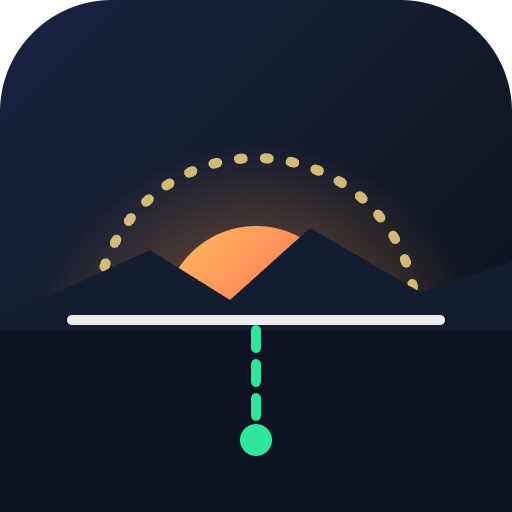
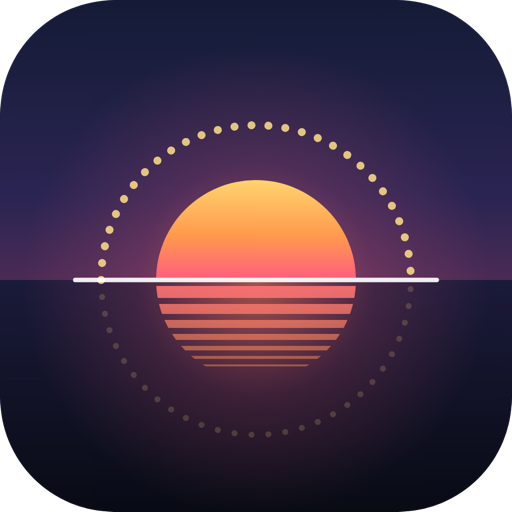
Specula 2026-10-28 00:54

diff --git a/js/main.js b/js/main.js
@@ -1,5 +1,5 @@
 // ─────────────────────────────────────────────────────────────
-// Lichtplan – Einstiegspunkt
+// Specula – Einstiegspunkt
 // ─────────────────────────────────────────────────────────────
 import { state, setState, onState } from './state.js';
 import { store, prefs, parseKML } from './store.js';
@@ -279,7 +279,7 @@ function openSettings(focus) {
         </section>
       </div>`,
     onOpen: (n) => {
-      n.querySelector('#set-export').onclick = () => import('./utils.js').then((u) => u.download(`Lichtplan-Backup-${new Date().toISOString().slice(0, 10)}.json`, store.exportJSON()));
+      n.querySelector('#set-export').onclick = () => import('./utils.js').then((u) => u.download(`Specula-Backup-${new Date().toISOString().slice(0, 10)}.json`, store.exportJSON()));
       n.querySelector('#set-import').onclick = importFile;
       // ── Synchronisierung
       const syncState = () => {
@@ -292,7 +292,7 @@ function openSettings(focus) {
       onSync(syncState);
       const tokenLink = () => {
         const owner = n.querySelector('#sync-repo').value.trim().split('/')[0];
-        n.querySelector('#sync-token-link').href = 'https://github.com/settings/personal-access-tokens/new?name=Lichtplan-Sync&description=' + encodeURIComponent('Synchronisierung der Lichtplan-App (nur Repository lichtplan-daten)') + '&expires_in=365&contents=write' + (owner ? `&target_name=${encodeURIComponent(owner)}` : '');
+        n.querySelector('#sync-token-link').href = 'https://github.com/settings/personal-access-tokens/new?name=Specula-Sync&description=' + encodeURIComponent('Synchronisierung der Specula-App (nur Repository lichtplan-daten)') + '&expires_in=365&contents=write' + (owner ? `&target_name=${encodeURIComponent(owner)}` : '');
       };
       tokenLink();
       n.querySelector('#sync-repo').addEventListener('input', tokenLink);
@@ -358,8 +358,8 @@ async function showSetupQR() {
     body: `<div class="qr-wrap">${qr.createSvgTag({ cellSize: 4, margin: 4, scalable: true })}</div>
       <ol class="qr-steps">
         <li>iPhone-<b>Kamera</b> auf den Code richten und den Link öffnen.</li>
-        <li>In Lichtplan auf <b>Übernehmen</b> tippen – deine Projekte werden geladen.</li>
-        <li>In Safari: Teilen-Symbol → <b>Zum Home-Bildschirm</b>. Fertig – Lichtplan ist jetzt eine App auf deinem iPhone.</li>
+        <li>In Specula auf <b>Übernehmen</b> tippen – deine Projekte werden geladen.</li>
+        <li>In Safari: Teilen-Symbol → <b>Zum Home-Bildschirm</b>. Fertig: Specula ist jetzt eine App auf deinem iPhone oder iPad.</li>
       </ol>
       <p class="muted small">Der Code enthält deinen Sync-Token${prefs.get('gmapsKey') ? ' und den Google-Key' : ''}. Nicht weitergeben.</p>`,
   });
@@ -388,7 +388,7 @@ function handleSetupLink() {
     return;
   }
   modal({
-    title: 'Lichtplan einrichten',
+    title: 'Specula einrichten',
     body: `<p>Diese Einstellungen übernehmen?</p><ul>
       ${cfg.sync ? `<li>Synchronisierung mit <b>${esc(cfg.sync.repo)}</b> – deine Projekte und Spots werden geladen</li>` : ''}
       ${cfg.gmapsKey ? '<li>Google-Key für Street View</li>' : ''}</ul>`,
@@ -462,10 +462,10 @@ $('#btn-install').onclick = async () => {
   if (r.outcome === 'accepted') $('#btn-install').classList.add('hidden');
   installEvt = null;
 };
-window.addEventListener('appinstalled', () => { $('#btn-install').classList.add('hidden'); toast('Lichtplan ist jetzt eine eigene App – mit eigenem Symbol im Dock'); });
+window.addEventListener('appinstalled', () => { $('#btn-install').classList.add('hidden'); toast('Specula ist jetzt eine eigene App, mit eigenem Symbol im Dock'); });
 
 if ('serviceWorker' in navigator && location.protocol !== 'file:') {
   navigator.serviceWorker.register('sw.js').catch(() => {});
 }
 // Für Tests/Debugging
-window.lichtplan = { state, setState, store, prefs };
+window.specula = window.lichtplan = { state, setState, store, prefs };

diff --git a/js/projects.js b/js/projects.js
@@ -124,7 +124,7 @@ function renderHome() {
   } else {
     if (store.isEmpty) {
       body.appendChild(el(`<div class="welcome card">
-        <h3>${icon('bookmark')}Willkommen bei Lichtplan</h3>
+        <h3>${icon('bookmark')}Willkommen bei Specula</h3>
         <p>Organisiere deine Foto-Spots in <b>Projekten</b> (z. B. eine Reise). Jeder Spot speichert Ort, Ziel, Notizen und beliebig viele <b>Termine</b> mit Uhrzeit – inklusive Lichtsituation.</p>
         ${window.__lpHasSSImport ? `<button class="btn primary block" id="sb-import-ss">${icon('download')}31 Orte aus Sun Surveyor übernehmen</button>` : ''}
         ${!syncConfig() && location.hostname !== 'localhost' && location.hostname !== '127.0.0.1' ? `<p class="muted small">${icon('phone')} Deine Projekte vom Mac holen: am Mac <b>Einstellungen → iPhone verbinden</b> und den QR-Code mit der Kamera scannen.</p>` : ''}
@@ -171,8 +171,8 @@ function renderHome() {
   node.querySelector('#sb-more').onclick = (e) => {
     const r = e.currentTarget.getBoundingClientRect();
     menu(r.left, r.bottom + 6, [
-      { label: 'Backup exportieren (JSON)', icon: 'download', onClick: () => download(`Lichtplan-Backup-${new Date().toISOString().slice(0, 10)}.json`, store.exportJSON()) },
-      { label: 'Alle Spots als KML (Google Earth)', icon: 'download', onClick: () => download('Lichtplan.kml', toKML('Lichtplan', store.spots), 'application/vnd.google-earth.kml+xml') },
+      { label: 'Backup exportieren (JSON)', icon: 'download', onClick: () => download(`Specula-Backup-${new Date().toISOString().slice(0, 10)}.json`, store.exportJSON()) },
+      { label: 'Alle Spots als KML (Google Earth)', icon: 'download', onClick: () => download('Specula.kml', toKML('Specula', store.spots), 'application/vnd.google-earth.kml+xml') },
       '-',
       { label: 'Importieren (JSON / KML) …', icon: 'upload', onClick: () => api.importFile() },
       window.__lpHasSSImport ? { label: 'Orte aus Sun Surveyor übernehmen', icon: 'download', onClick: () => api.importSunSurveyor() } : null,
@@ -276,7 +276,7 @@ function renderProject() {
       { label: 'Alle Spots auf Karte zeigen', icon: 'map', onClick: () => api.fitSpots(store.spotsOf(p.id)) },
       '-',
       { label: 'Als KML exportieren', icon: 'download', onClick: () => download(`${p.name}.kml`, toKML(p.name, store.spotsOf(p.id)), 'application/vnd.google-earth.kml+xml') },
-      { label: 'Als Lichtplan-Datei exportieren', icon: 'download', onClick: () => download(`${p.name}.lichtplan.json`, JSON.stringify({ app: 'Lichtplan', version: 1, projects: [p], spots: store.spotsOf(p.id) }, null, 1)) },
+      { label: 'Als Specula-Datei exportieren', icon: 'download', onClick: () => download(`${p.name}.specula.json`, JSON.stringify({ app: 'Specula', version: 1, projects: [p], spots: store.spotsOf(p.id) }, null, 1)) },
       '-',
       { label: p.archived ? 'Aus Archiv holen' : 'Archivieren', icon: 'folder', onClick: () => { store.updateProject(p.id, { archived: !p.archived }); if (!p.archived) goHome(); } },
       { label: 'Projekt löschen …', icon: 'trash', danger: true, onClick: async () => {

diff --git a/index.html b/index.html
@@ -7,11 +7,14 @@
   <meta name="apple-mobile-web-app-capable" content="yes" />
   <meta name="mobile-web-app-capable" content="yes" />
   <meta name="apple-mobile-web-app-status-bar-style" content="black-translucent" />
-  <meta name="apple-mobile-web-app-title" content="Lichtplan" />
-  <title>Lichtplan</title>
+  <meta name="apple-mobile-web-app-title" content="Specula" />
+  <title>Specula</title>
   <link rel="manifest" href="manifest.json" />
   <link rel="icon" href="icons/icon.svg" type="image/svg+xml" />
   <link rel="apple-touch-icon" href="icons/icon-180.png" />
+  <link rel="apple-touch-icon" sizes="152x152" href="icons/icon-152.png" />
+  <link rel="apple-touch-icon" sizes="167x167" href="icons/icon-167.png" />
+  <link rel="apple-touch-icon" sizes="180x180" href="icons/icon-180.png" />
   <link rel="stylesheet" href="vendor/leaflet/leaflet.css" />
   <link rel="stylesheet" href="css/app.css" />
 </head>
@@ -21,7 +24,7 @@
     <header id="topbar">
       <div class="brand">
         <div class="brand-logo"></div>
-        <span>Lichtplan</span>
+        <span>Specula</span>
       </div>
 
       <div class="search-wrap">
@@ -40,7 +43,7 @@
         </div>
         <button class="btn ai-btn" id="btn-ai" title="KI-Assistent (K)"><span data-icon="sparkles"></span><span class="lbl">Assistent</span></button>
         <button class="btn primary" id="btn-save-spot" title="Ort &amp; Zeit speichern (S)"><span data-icon="bookmark-plus"></span><span class="lbl">Spot speichern</span></button>
-        <button class="btn hidden" id="btn-install" title="Lichtplan als eigene App installieren (eigenes Symbol im Dock)"><span data-icon="download"></span><span class="lbl">App installieren</span></button>
+        <button class="btn hidden" id="btn-install" title="Specula als eigene App installieren (eigenes Symbol im Dock)"><span data-icon="download"></span><span class="lbl">App installieren</span></button>
         <button class="btn icon-btn" id="btn-settings" title="Einstellungen"><span data-icon="settings"></span></button>
       </div>
     </header>

diff --git a/css/app.css b/css/app.css
@@ -1,5 +1,5 @@
 /* ─────────────────────────────────────────────────────────────
-   Lichtplan – Design
+   Specula – Design
    ───────────────────────────────────────────────────────────── */
 :root {
   --bg: #0b0f17;
@@ -65,9 +65,7 @@ code { font: 12px ui-monospace, "SF Mono", monospace; background: rgba(255,255,2
 
 /* ── Topbar ─────────────────────────────────────────────── */
 .brand { display: flex; align-items: center; gap: 10px; font-weight: 700; font-size: 15px; letter-spacing: -.01em; min-width: calc(var(--sb-w) - 28px); }
-.brand-logo { width: 26px; height: 26px; border-radius: 8px; background: var(--grad); position: relative; box-shadow: 0 4px 14px rgba(255, 123, 84, .45); }
-.brand-logo::after { content: ""; position: absolute; inset: 7px 5px 9px; border-radius: 50% 50% 0 0; border: 2px solid rgba(255,255,255,.95); border-bottom: 0; }
-.brand-logo::before { content: ""; position: absolute; left: 4px; right: 4px; bottom: 7px; height: 2px; background: rgba(255,255,255,.95); border-radius: 2px; }
+.brand-logo { width: 26px; height: 26px; flex: none; border-radius: 7px; background: url(../icons/icon.svg) center / cover no-repeat; box-shadow: 0 4px 14px rgba(255, 94, 126, .35); }
 .search-wrap { flex: 1; max-width: 560px; position: relative; display: flex; align-items: center; }
 .search-wrap > .icon { position: absolute; left: 11px; color: var(--text3); pointer-events: none; }
 #search { width: 100%; height: 34px; border-radius: 10px; border: 1px solid var(--line2); background: rgba(255,255,255,.05); padding: 0 12px 0 34px; outline: none; transition: .15s; }

diff --git a/js/store.js b/js/store.js
@@ -95,10 +95,10 @@ export const store = {
   allTags() {
     const set = new Set(); data.spots.forEach((s) => (s.tags || []).forEach((t) => set.add(t))); return [...set].sort();
   },
-  exportJSON() { return JSON.stringify({ app: 'Lichtplan', version: 1, exported: new Date().toISOString(), projects: data.projects, spots: data.spots }, null, 1); },
+  exportJSON() { return JSON.stringify({ app: 'Specula', version: 1, exported: new Date().toISOString(), projects: data.projects, spots: data.spots }, null, 1); },
   /** mode: 'merge' (Duplikate per id überspringen) | 'replace' */
   importJSON(obj, mode = 'merge') {
-    if (!obj || !Array.isArray(obj.spots)) throw new Error('Keine gültige Lichtplan-Datei');
+    if (!obj || !Array.isArray(obj.spots)) throw new Error('Keine gültige Specula-Datei');
     if (mode === 'replace') data = { version: 1, projects: [], spots: [], deleted: data.deleted || {} };
     const pIds = new Set(data.projects.map((p) => p.id)), sIds = new Set(data.spots.map((s) => s.id));
     const now = Date.now();
@@ -177,7 +177,7 @@ window.addEventListener('storage', (e) => {
 export const prefs = {
   get: (k) => settings[k],
   set(k, v) {
-    // erst den aktuellen Stand lesen (ein anderes Lichtplan-Fenster könnte ihn geändert haben)
+    // erst den aktuellen Stand lesen (ein anderes Specula-Fenster könnte ihn geändert haben)
     settings = { ...DEFAULT_SETTINGS, ...load(SETTINGS_KEY, {}), [k]: v };
     localStorage.setItem(SETTINGS_KEY, JSON.stringify(settings));
     if (k === 'gmapsKey') { settings.gmapsKeyAt = Date.now(); localStorage.setItem(SETTINGS_KEY, JSON.stringify(settings)); anyListeners.forEach((f) => f('settings')); }

diff --git a/sw.js b/sw.js
@@ -1,5 +1,5 @@
-// Lichtplan Service Worker – App offline verfügbar (Netzwerk zuerst, Cache als Fallback)
-const CACHE = 'lichtplan-v9';
+// Specula Service Worker – App offline verfügbar (Netzwerk zuerst, Cache als Fallback)
+const CACHE = 'specula-v10';
 const SHELL = ['./', 'index.html', 'css/app.css', 'manifest.json', 'icons/icon.svg',
   'vendor/leaflet/leaflet.js', 'vendor/leaflet/leaflet.css', 'vendor/astronomy.browser.min.js',
   'js/main.js', 'js/utils.js', 'js/astro.js', 'js/store.js', 'js/state.js', 'js/services.js', 'js/map.js',
@@ -9,7 +9,7 @@ self.addEventListener('activate', (e) => {
   e.waitUntil(caches.keys()
     .then((ks) => Promise.all(ks.filter((k) => k !== CACHE && k !== CACHE + '-tiles').map((k) => caches.delete(k))))
     .then(() => self.clients.claim())
-    // alle offenen Lichtplan-Fenster auf die neue Version bringen (alte Fenster könnten sonst Einstellungen überschreiben)
+    // alle offenen Specula-Fenster auf die neue Version bringen (alte Fenster könnten sonst Einstellungen überschreiben)
     .then(() => self.clients.matchAll({ type: 'window' }))
     .then((cs) => Promise.all(cs.map((c) => c.navigate(c.url.replace(/#.*$/, '')).catch(() => null)))));
 });

diff --git a/js/ai/chat.js b/js/ai/chat.js
@@ -166,7 +166,7 @@ function submit() {
 }
 
 function systemPrompt(useTools, extra = '') {
-  return `Du bist der Assistent der Foto-Planungs-App „Lichtplan“ (ähnlich Sun Surveyor / PhotoPills) – ein erfahrener Landschafts- und Reisefotograf. Du hilfst, Sonne, Mond, Milchstraße und Wetter zu planen und Foto-Spots in Projekten (Reisen) zu organisieren.
+  return `Du bist der Assistent der Foto-Planungs-App „Specula“ (ähnlich Sun Surveyor / PhotoPills) – ein erfahrener Landschafts- und Reisefotograf. Du hilfst, Sonne, Mond, Milchstraße und Wetter zu planen und Foto-Spots in Projekten (Reisen) zu organisieren.
 
 REGELN
 1. ${useTools ? 'Uhrzeiten, Richtungen (Azimut), Mondphasen, Wetter und Koordinaten NIE schätzen oder aus dem Gedächtnis nennen – immer die Werkzeuge verwenden. Mehrere Werkzeuge nacheinander nutzen ist ausdrücklich erwünscht.' : 'Du hast in diesem Modus KEINE Werkzeuge. Nutze ausschließlich die Daten unten. Wenn etwas fehlt, sag ehrlich, dass du es nicht berechnen kannst, und verweise auf den Planer-Reiter der App.'}

diff --git a/js/streetview.js b/js/streetview.js
@@ -79,7 +79,7 @@ function showEmpty(err) {
     <div class="empty-card glass">
       <div class="empty-icon">${icon('streetview')}</div>
       <h2>Street View mit Sonnenbahn</h2>
-      ${err ? `<p class="warn">${esc(err)}</p>` : '<p>Für die eingeblendeten Sonnen- und Mondbahnen braucht Lichtplan einen eigenen Google-Maps-API-Key. Du hinterlegst ihn einmal in den Einstellungen; er bleibt nur auf diesem Gerät gespeichert.</p>'}
+      ${err ? `<p class="warn">${esc(err)}</p>` : '<p>Für die eingeblendeten Sonnen- und Mondbahnen braucht Specula einen eigenen Google-Maps-API-Key. Du hinterlegst ihn einmal in den Einstellungen; er bleibt nur auf diesem Gerät gespeichert.</p>'}
       <div class="btn-row center">
         <button class="btn primary" id="sv-open-settings">${icon('settings')}API-Key eintragen</button>
         <a class="btn ghost" href="${url}" target="_blank" rel="noopener">${icon('ext')}In Google Maps öffnen (${Math.round(heading)}° ${compass(heading)})</a>

diff --git a/js/sync.js b/js/sync.js
@@ -125,8 +125,8 @@ export function syncNow() {
         if (cm !== canon(local)) store.applySync(merged);
         if (remote && cm === canon(remote.data)) { setStatus({ state: 'ok', at: Date.now(), error: null }); return; }
         const body = {
-          message: `Lichtplan-Sync von ${deviceName()} · ${merged.projects.length} Projekte, ${merged.spots.length} Spots`,
-          content: b64encode(JSON.stringify({ app: 'Lichtplan', version: 1, saved: new Date().toISOString(), ...merged }, null, 1)),
+          message: `Specula-Sync von ${deviceName()} · ${merged.projects.length} Projekte, ${merged.spots.length} Spots`,
+          content: b64encode(JSON.stringify({ app: 'Specula', version: 1, saved: new Date().toISOString(), ...merged }, null, 1)),
           ...(remote ? { sha: remote.sha } : {}),
         };
         let r;

diff --git a/js/ai/provider.js b/js/ai/provider.js
@@ -92,7 +92,7 @@ export async function capabilities(p) {
 function headers(p) {
   const h = { 'Content-Type': 'application/json' };
   if (p.apiKey) h.Authorization = `Bearer ${p.apiKey}`;
-  if (p.preset === 'openrouter') { h['HTTP-Referer'] = location.origin; h['X-Title'] = 'Lichtplan'; }
+  if (p.preset === 'openrouter') { h['HTTP-Referer'] = location.origin; h['X-Title'] = 'Specula'; }
   return h;
 }
 

diff --git a/js/config.js b/js/config.js
@@ -1,2 +1,2 @@
 // Wird von publish.sh gesetzt: öffentliche Adresse der App (für den iPhone-QR-Code)
-export const HOSTED_URL = 'https://jonasf13.github.io/lichtplan/';
+export const HOSTED_URL = 'https://jonasf13.github.io/specula/';

diff --git a/README.md b/README.md
@@ -1,4 +1,4 @@
-# Lichtplan
+# Specula
 
 Foto-Planungs-App für Sonne, Mond und Milchstraße: Projekte, Spots und Termine,
 Street View mit Sonnenbahn, Ausrichtungs-Planer, Wetter und KI-Assistent.
